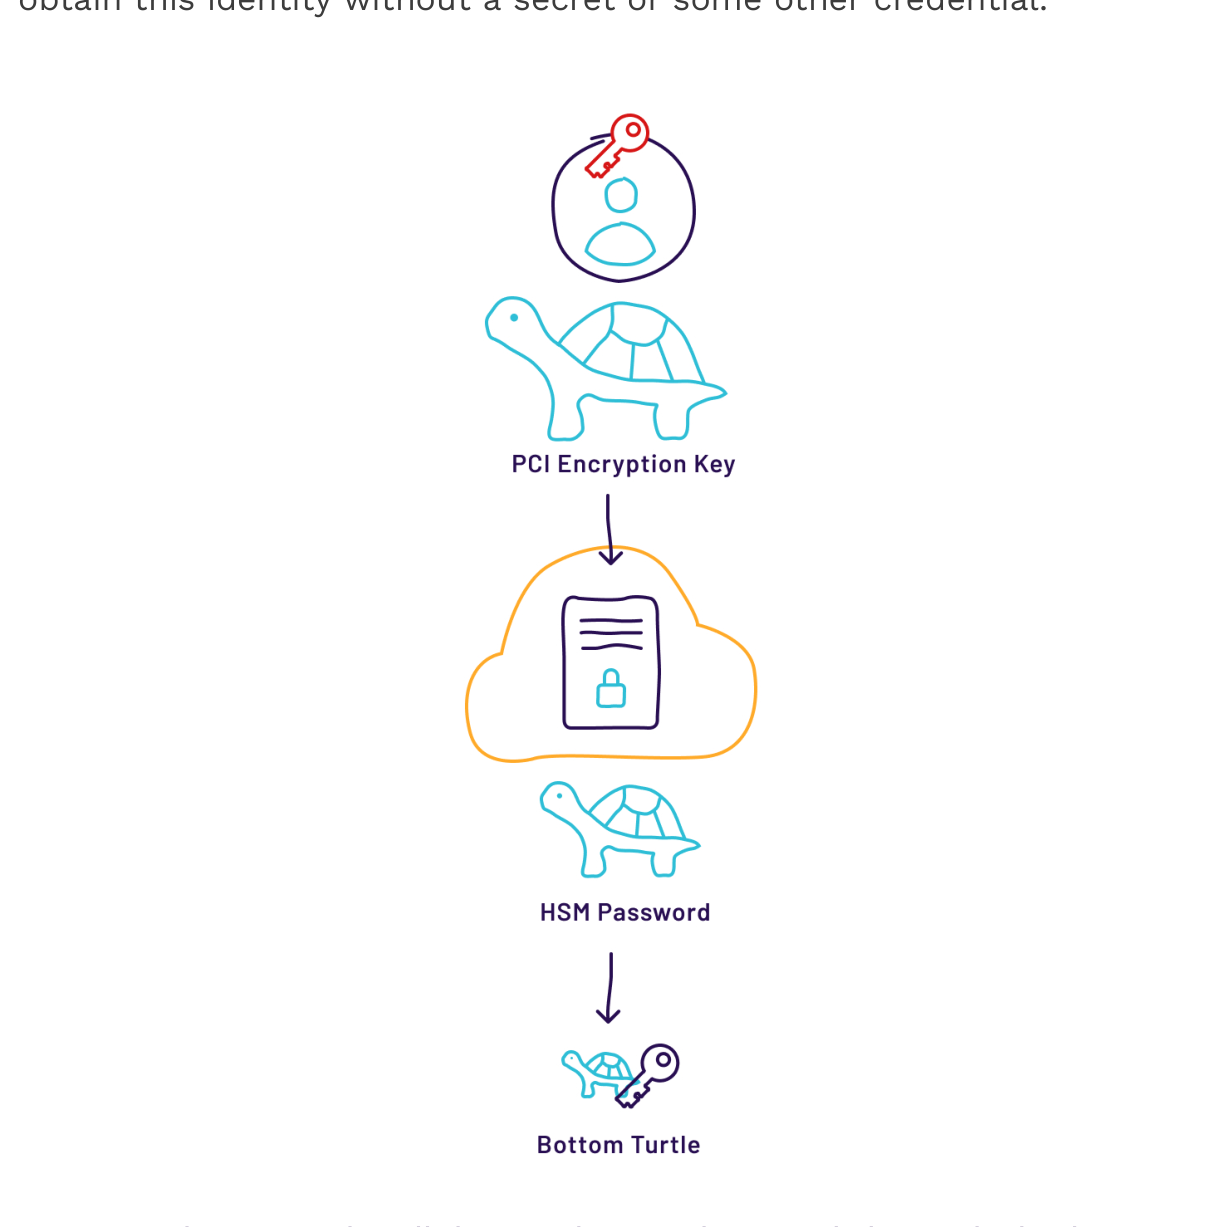
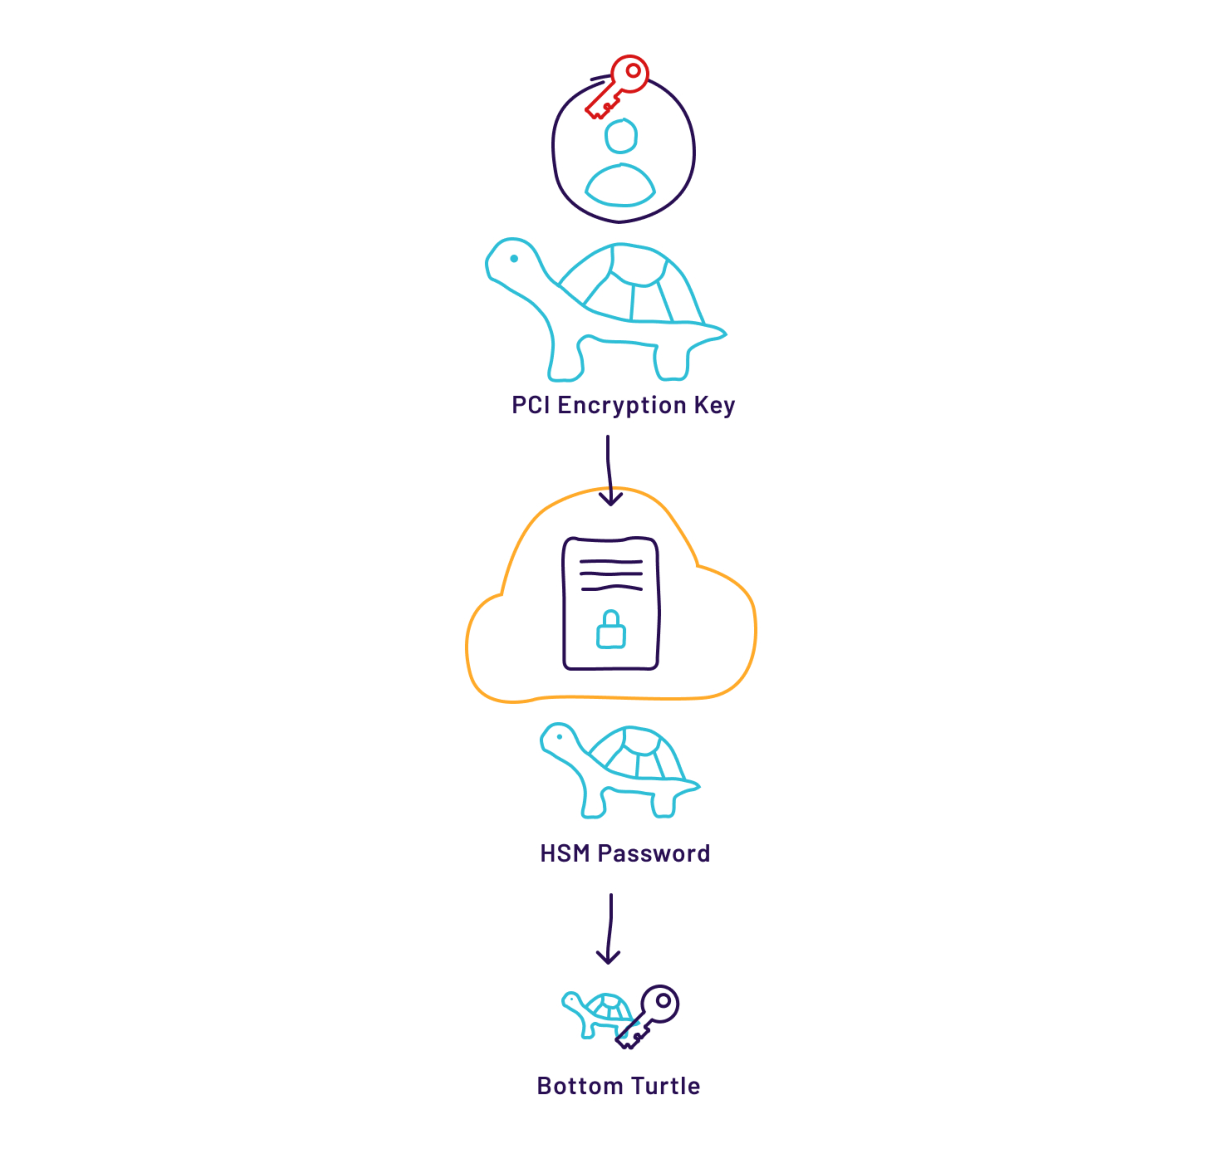
fix(figures): remove top-edge text bleed-in from cropped illustrations
The original crop script computed the diagram region as the union of
drawing/image rects, then clamped its top edge to region_top (the
bottom of the preceding paragraph) before subtracting a 6pt padding.
That ordering let the padding push the crop above region_top, bleeding
the last line of the preceding paragraph into 26 of the 48 figures
(e.g. fig-2-1, fig-4-2).

Fix the boundary to max(union.y0 - pad, region_top) so the crop can
never extend above region_top, and add scripts/crop_figures.py as a
reproducible version of the corrected logic. Re-ran PDF/EPUB builds
locally to confirm the fix and that no content was lost.

diff --git a/scripts/crop_figures.py b/scripts/crop_figures.py
@@ -1,0 +1,123 @@
+"""Crop figure illustrations out of the source PDF.
+
+Usage:
+    python scripts/crop_figures.py <path-to-original-book.pdf> <manifest.json> <out-dir>
+
+The manifest is a JSON list of ``{"page": <0-based page index>, "key": "fig-X-Y",
+"caption": "Fig. X.Y: ..."}`` entries (see figures_manifest.json produced during the
+initial extraction pass).
+
+This script locates, for each figure, the caption's top edge (``cap_top``) and the
+bottom edge of the paragraph that precedes the figure (``region_top``), then unions
+the drawing/image rects that plausibly belong to the figure itself (filtering out
+degenerate page-spanning bezier bounding boxes). The final crop's top edge is
+``max(union.y0 - pad, region_top)`` -- this clamp is the important part: it must
+never let the crop extend above ``region_top``, or the image will bleed into the
+last line of the preceding paragraph. A previous version of this script applied the
+padding *after* clamping, which allowed exactly that bleed-in on ~half of the
+figures (e.g. fig-2-1, fig-4-2).
+"""
+import json
+import os
+import re
+import sys
+
+import fitz
+
+PAD = 6.0
+BOTTOM_GAP = 4.0
+PAGE_NUM_RE = re.compile(r"^\s*\d{1,3}\s*$")
+
+
+def is_degenerate(rect, page_rect):
+    """Filter out bogus bezier-curve bboxes with huge extents outside the page."""
+    if rect.y0 < -50 or rect.y1 > page_rect.height + 50:
+        return True
+    if rect.height <= 0 or rect.width <= 0:
+        return True
+    if rect.height > page_rect.height * 1.2:
+        return True
+    return False
+
+
+def crop_figure(doc, item):
+    page = doc[item["page"]]
+    page_rect = page.rect
+    old_rect = fitz.Rect(*item["rect"]) if "rect" in item else None
+
+    first_line = item["caption"].split("\n")[0][:30]
+    cap_top = None
+    for inst in page.search_for(first_line):
+        cap_top = inst.y0
+        break
+    if cap_top is None and old_rect is not None:
+        cap_top = old_rect.y1 + BOTTOM_GAP
+
+    blocks = []
+    for b in page.get_text("blocks"):
+        text = b[4].strip()
+        if not text or PAGE_NUM_RE.match(text):
+            continue
+        if text.startswith(first_line[:15]):
+            continue
+        blocks.append(b)
+    blocks.sort(key=lambda b: b[1])
+
+    region_top = None
+    for b in blocks:
+        b_y1 = b[3]
+        if b_y1 <= cap_top - 1 and (region_top is None or b_y1 > region_top):
+            region_top = b_y1
+
+    candidate_rects = []
+    for dr in page.get_drawings():
+        r = dr["rect"]
+        if is_degenerate(r, page_rect):
+            continue
+        if r.y1 > cap_top + 1:
+            continue
+        if region_top is not None and r.y1 <= region_top + 0.5:
+            continue
+        candidate_rects.append(r)
+    for info in page.get_image_info():
+        r = fitz.Rect(info["bbox"])
+        if is_degenerate(r, page_rect):
+            continue
+        if r.y1 > cap_top + 1:
+            continue
+        if region_top is not None and r.y1 <= region_top + 0.5:
+            continue
+        candidate_rects.append(r)
+
+    if candidate_rects:
+        union = candidate_rects[0]
+        for r in candidate_rects[1:]:
+            union = union | r
+    elif old_rect is not None:
+        union = fitz.Rect(old_rect.x0, old_rect.y0 + PAD, old_rect.x1, old_rect.y1)
+    else:
+        raise ValueError(f"no drawings/images found for {item['key']}")
+
+    final_top = max(union.y0 - PAD, region_top) if region_top is not None else union.y0 - PAD
+    x0 = old_rect.x0 if old_rect is not None else union.x0
+    x1 = old_rect.x1 if old_rect is not None else union.x1
+    return fitz.Rect(x0, final_top, x1, cap_top - BOTTOM_GAP)
+
+
+def main():
+    pdf_path, manifest_path, out_dir = sys.argv[1], sys.argv[2], sys.argv[3]
+    os.makedirs(out_dir, exist_ok=True)
+
+    doc = fitz.open(pdf_path)
+    manifest = json.load(open(manifest_path, encoding="utf-8"))
+
+    for item in manifest:
+        page = doc[item["page"]]
+        rect = crop_figure(doc, item)
+        pix = page.get_pixmap(matrix=fitz.Matrix(3, 3), clip=rect)
+        pix.save(os.path.join(out_dir, f"{item['key']}.png"))
+        print(f"{item['key']}: {rect}")
+
+
+if __name__ == "__main__":
+    main()
